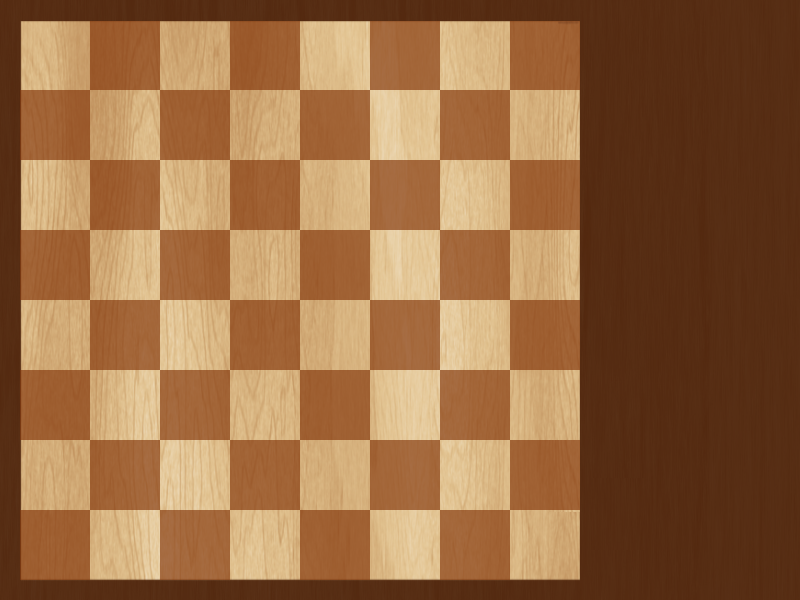
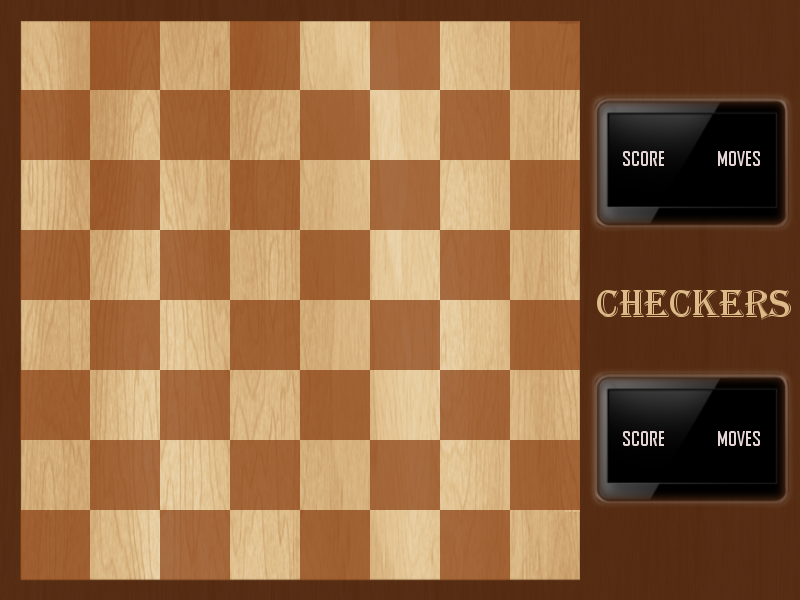
Welcome screen is added. Problem encountered when changing the screens and displaying the start button

Changed region(s): [[0.7188, 0.6, 1.0, 0.84], [0.7188, 0.15, 1.0, 0.39], [0.75, 0.48, 1.0, 0.54]]

diff --git a/src/Board.java b/src/Board.java
@@ -2,45 +2,76 @@ import java.awt.Graphics;
 import java.awt.Graphics2D;
 
 import java.awt.Image;
+import java.awt.event.ActionEvent;
+import java.awt.event.ActionListener;
 
 import javax.swing.ImageIcon;
+import javax.swing.JButton;
 
 import javax.swing.JPanel;
 
-public class Board extends JPanel {
+public class Board extends JPanel{
     
-    Image boardImg, blackchipImg, redchipImg, crownImg;
+    Image boardImg, blackchipImg, redchipImg, crownImg, welcomeImg;
     Chip[] blackchips;
     Chip[] redchips;
+    static int gameState;// 0 - welcome, 1- game running, 2- finished
+    private final JButton startButton;
     
     public Board() {
+        
+        ImageIcon welcomeIcon = new ImageIcon(this.getClass().getResource("welcome.png"));
+        welcomeImg = welcomeIcon.getImage();
+        
         ImageIcon boardIcon = new ImageIcon(this.getClass().getResource("board.png"));
         boardImg = boardIcon.getImage();
+        
         ImageIcon blackchipIcon = new ImageIcon(this.getClass().getResource("blackchip.png"));
         blackchipImg = blackchipIcon.getImage();
+        
         ImageIcon redchipIcon = new ImageIcon(this.getClass().getResource("redchip.png"));
         redchipImg = redchipIcon.getImage();
+        
         ImageIcon crownIcon = new ImageIcon(this.getClass().getResource("crown.png"));
         crownImg = crownIcon.getImage();
+        
+        startButton = new JButton("Start");
+        this.add(startButton);
+        startButton.addActionListener(new StartAction());
+        
         blackchips = new Chip[12];
         redchips = new Chip[12];
         for(int i = 0; i < 12; i++){
             redchips[i] = new Chip(i%4,i/4);
             blackchips[i] = new Chip(i%4,7-i/4);
         }
+        
+        this.revalidate();
+        this.repaint();
     }
 
+    @Override
     public void paint(Graphics g) {
         Graphics2D g2d = (Graphics2D) g;
-        g2d.drawImage(boardImg, 0, 0, null);
-        updateChipInfo();
-        for(int i = 0;i<12;i++){
-            g2d.drawImage(redchipImg, pixelXPos(redchips[i].col, redchips[i].row), pixelYPos(redchips[i].row), null);
-            if(redchips[i].isKing)
-                g2d.drawImage(crownImg, pixelXPos(redchips[i].col, redchips[i].row), pixelYPos(redchips[i].row), null);
-            g2d.drawImage(blackchipImg, pixelXPos(blackchips[i].col,redchips[i].row), pixelYPos(blackchips[i].row), null);
-            if(blackchips[i].isKing)
-                g2d.drawImage(crownImg, pixelXPos(blackchips[i].col,redchips[i].row), pixelYPos(blackchips[i].row), null);
+        if(gameState == 0){
+            g2d.drawImage(welcomeImg, 0, 0, null);
+        }
+        else{
+            startButton.setVisible(false);
+            
+            g2d.drawImage(boardImg, 0, 0, null);
+            
+            updateChipInfo();
+            
+            for(int i = 0;i<12;i++){
+                g2d.drawImage(redchipImg, pixelXPos(redchips[i].col, redchips[i].row), pixelYPos(redchips[i].row), null);
+                if(redchips[i].isKing)
+                    g2d.drawImage(crownImg, pixelXPos(redchips[i].col, redchips[i].row), pixelYPos(redchips[i].row), null);
+                
+                g2d.drawImage(blackchipImg, pixelXPos(blackchips[i].col,redchips[i].row), pixelYPos(blackchips[i].row), null);
+                if(blackchips[i].isKing)
+                    g2d.drawImage(crownImg, pixelXPos(blackchips[i].col,redchips[i].row), pixelYPos(blackchips[i].row), null);
+            }
         }
     }
     
@@ -55,8 +86,21 @@ public class Board extends JPanel {
     public void updateChipInfo(){
         
     }
+    
+    /*@Override
+    public void actionPerformed(ActionEvent e) {
+        JButton button = (JButton) e.getSource();
+        gameState=1;
+    }*/
             
 }
+
+class StartAction implements ActionListener {        
+  @Override
+  public void actionPerformed (ActionEvent e) {     
+        Board.gameState=1;
+  }
+}   
 
 class Chip{
     int col, row;

diff --git a/src/Checkers.java b/src/Checkers.java
@@ -3,14 +3,15 @@ import javax.swing.JFrame;
 public class Checkers extends JFrame {
 
     public Checkers() {
-        add(new Board());
+        
         setTitle("Checkers");
         setDefaultCloseOperation(EXIT_ON_CLOSE);
         setUndecorated(true);
-        setSize(800, 600);//806,629
+        setSize(800, 600);
         setLocationRelativeTo(null);
+        setResizable(false); 
+        add(new Board());
         setVisible(true);
-        setResizable(false);
     }
     public static void main(String[] args) {
         new Checkers();
